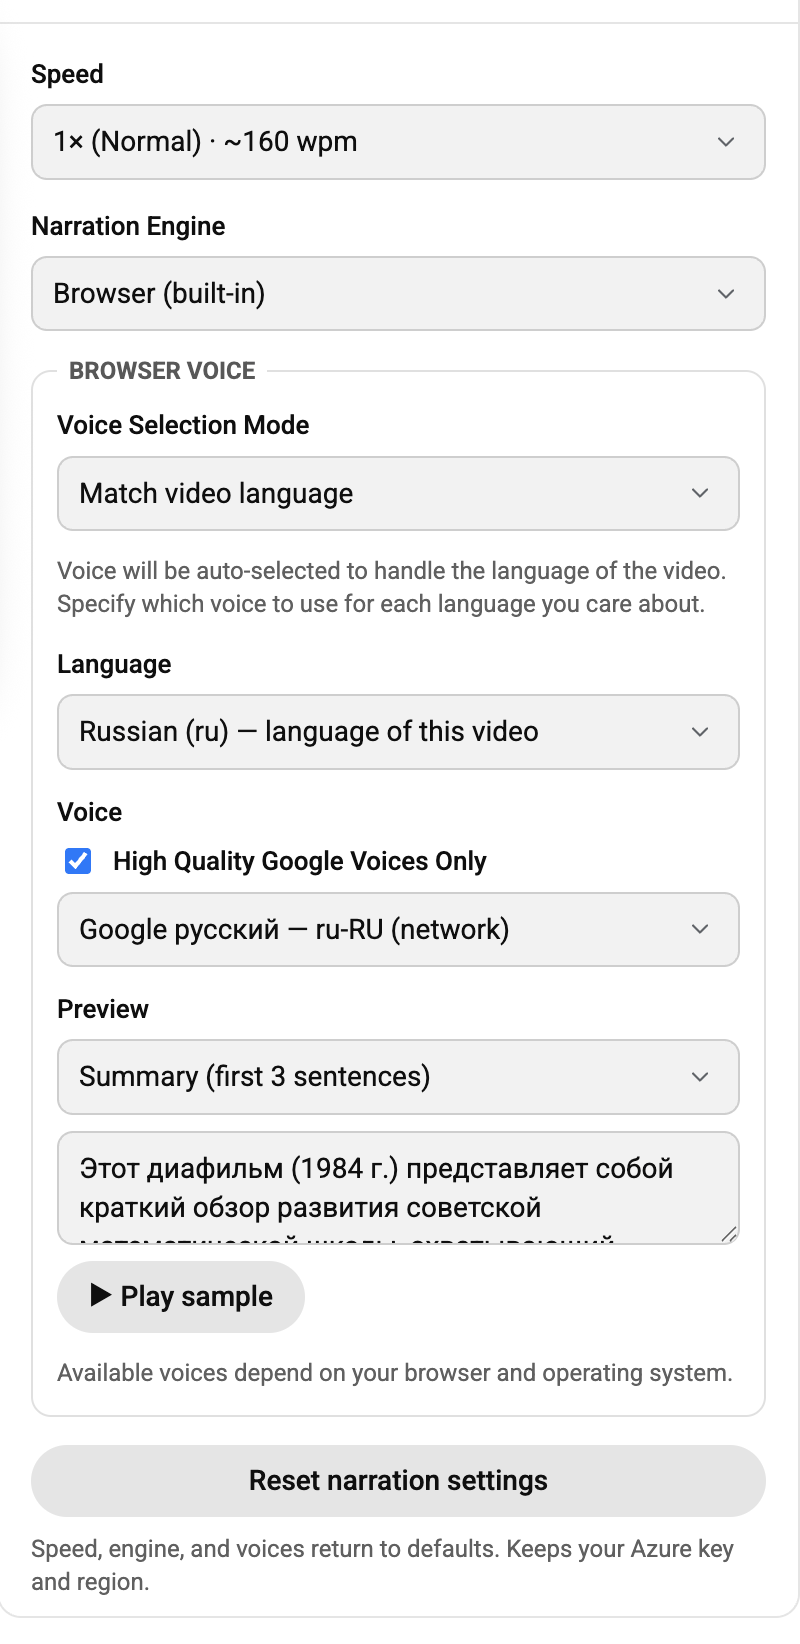
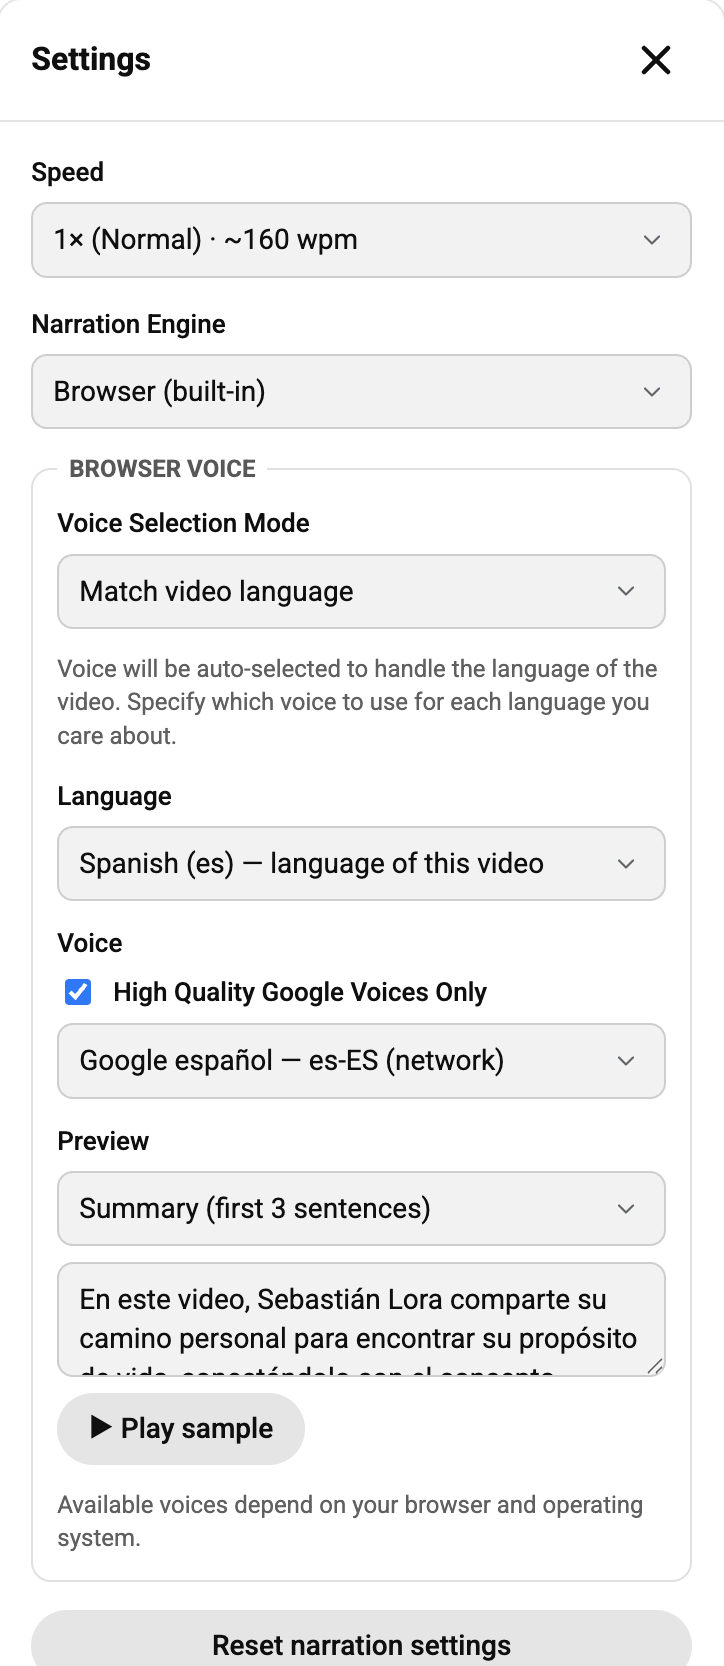
Spanish settings screenshot; Feedback identity; Azure explained as Microsoft cloud
Replace the settings screenshot with a Spanish video (language picker
'Spanish (es) — language of this video', Spanish voice and summary
preview) and switch the languages example to Spanish. Rename Support to
Feedback & Suggestions everywhere (free product, no formal support;
support.html now redirects), relabel nav Listen as 'How to Listen',
explain Azure as Microsoft's cloud-services platform in the key guide,
and change the contact address to [email redacted].

diff --git a/listen.html b/listen.html
@@ -43,8 +43,8 @@
     <h2>Settings</h2>
     <p>Click the <strong>gear icon</strong> next to Listen to open settings. Everything saves automatically.</p>
     <figure class="screenshot">
-      <img src="assets/screenshots/listen-settings.png" alt="The 10xTube settings panel: Speed, Narration Engine set to Browser (built-in), Voice Selection Mode set to Match video language, a Language picker showing 'Russian (ru) — language of this video', a Voice picker, a preview of the summary text with a Play sample button, and a Reset narration settings button." loading="lazy" width="800" height="1626">
-      <figcaption>The settings panel — here on a Russian video, with the voice matched to the video's language.</figcaption>
+      <img src="assets/screenshots/listen-settings.png" alt="The 10xTube settings panel: Speed, Narration Engine set to Browser (built-in), Voice Selection Mode set to Match video language, a Language picker showing 'Spanish (es) — language of this video', a Voice picker with a Spanish voice, a preview of the Spanish summary text with a Play sample button, and a Reset narration settings button." loading="lazy" width="724" height="1666">
+      <figcaption>The settings panel — here on a Spanish video, with the voice matched to the video's language.</figcaption>
     </figure>
     <ul>
       <li><strong>Speed</strong> — one playback speed for everything, from relaxed to very fast.</li>
@@ -55,7 +55,7 @@
     </ul>
 
     <h2>Languages</h2>
-    <p>Narration follows the video: a French video is read in French, a Russian one in Russian. If your browser has no voice for a video's language, 10xTube says so instead of reading it in the wrong language — installing a voice or switching to Azure fixes that.</p>
+    <p>Narration follows the video: a French video is read in French, a Spanish one in Spanish. If your browser has no voice for a video's language, 10xTube says so instead of reading it in the wrong language — installing a voice or switching to Azure fixes that.</p>
 
     <h2>Why Voices Sound Different in Chrome and Safari</h2>
     <p>The free built-in narration uses whatever voices your browser offers, and browsers differ a lot:</p>

diff --git a/azure.html b/azure.html
@@ -26,7 +26,7 @@
   <main class="content">
     <p class="eyebrow">Guide</p>
     <h1>Get a Free Azure Speech Key</h1>
-    <p class="lead">10xTube's <a href="./listen.html">Listen feature</a> can narrate summaries with high-quality Azure neural voices. That requires your own Azure Speech API key. This guide walks you through getting one on Azure's free tier.</p>
+    <p class="lead">10xTube's <a href="./listen.html">Listen feature</a> can narrate summaries with high-quality Azure neural voices. Azure is Microsoft's cloud-services platform — its Speech service is what turns text into natural-sounding audio, and using it requires your own (free) API key. This guide walks you through getting one on Azure's free tier.</p>
 
     <div class="note">
       <p>The whole process takes about 10 minutes. You will need a Microsoft account and, for identity verification, a credit or debit card. On the free tier the card is there for verification only, and nothing in this guide should cost money — but please read on:</p>

diff --git a/feedback.html b/feedback.html
@@ -26,7 +26,7 @@
   <main class="content">
     <p class="eyebrow">Feedback</p>
     <h1>Feedback &amp; Suggestions</h1>
-    <p class="lead">10xTube is a free product, so there is no formal support service — but we genuinely read every message. Suggestions, feature requests, and bug reports are all welcome at <a href="mailto:[email redacted]">[email redacted]</a>.</p>
+    <p class="lead">10xTube is a free product, so there is no formal support service — but we genuinely read every message. Suggestions, feature requests, and bug reports are all welcome at <a href="mailto:[email redacted]">[email redacted]</a>.</p>
 
     <h2>Quick Checks First</h2>
     <p>Most issues resolve with one of these:</p>